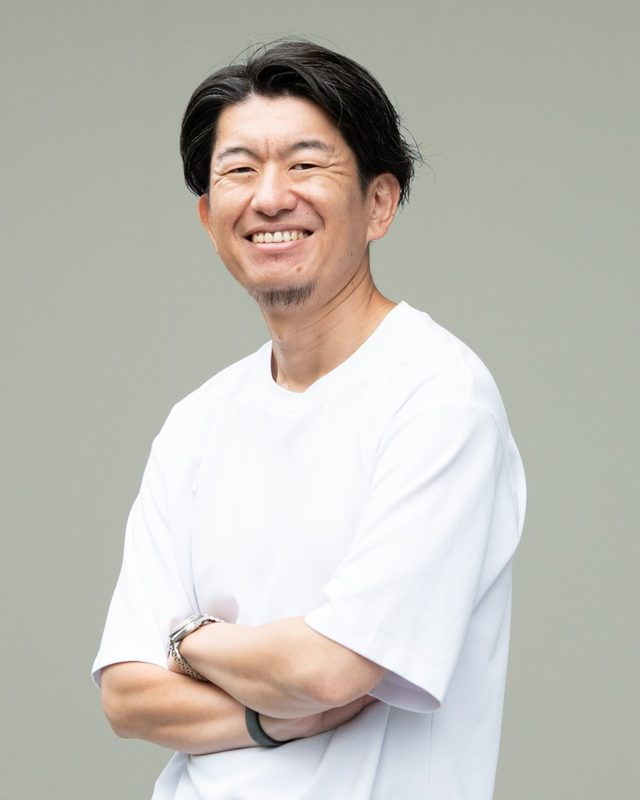
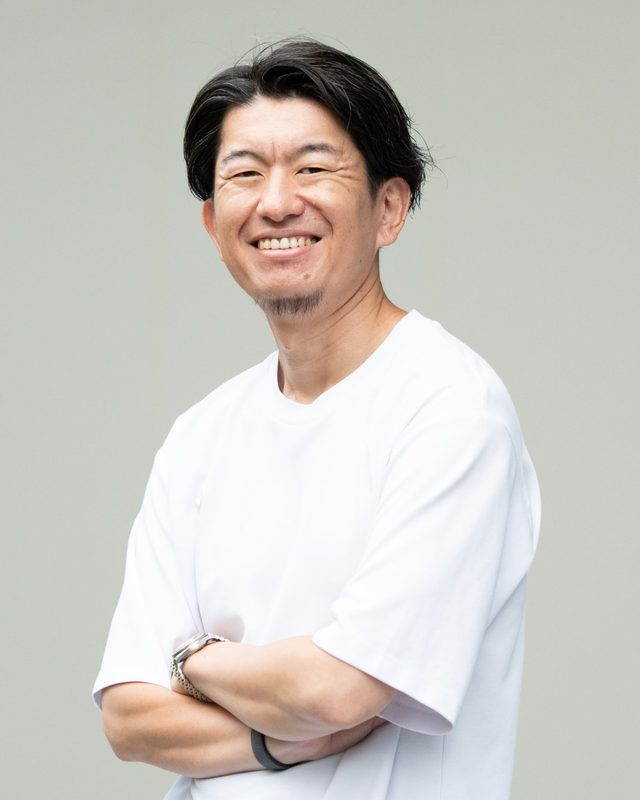
プロフィール写真を差し替え
Claude-Session: https://claude.ai/code/session_01UKgKGqsL3MaaPCvU3b7fPH

diff --git a/index.html b/index.html
@@ -141,7 +141,7 @@
     <div class="narrow">
       <h2>PROFILE</h2>
       <div class="profile">
-        <img src="/assets/profile.jpg" alt="早川 良太" width="220" height="275">
+        <img src="/assets/profile.jpg?v=2" alt="早川 良太" width="220" height="275">
         <div class="body">
           <p class="role">代表取締役</p>
           <p class="name">早川 良太</p>
